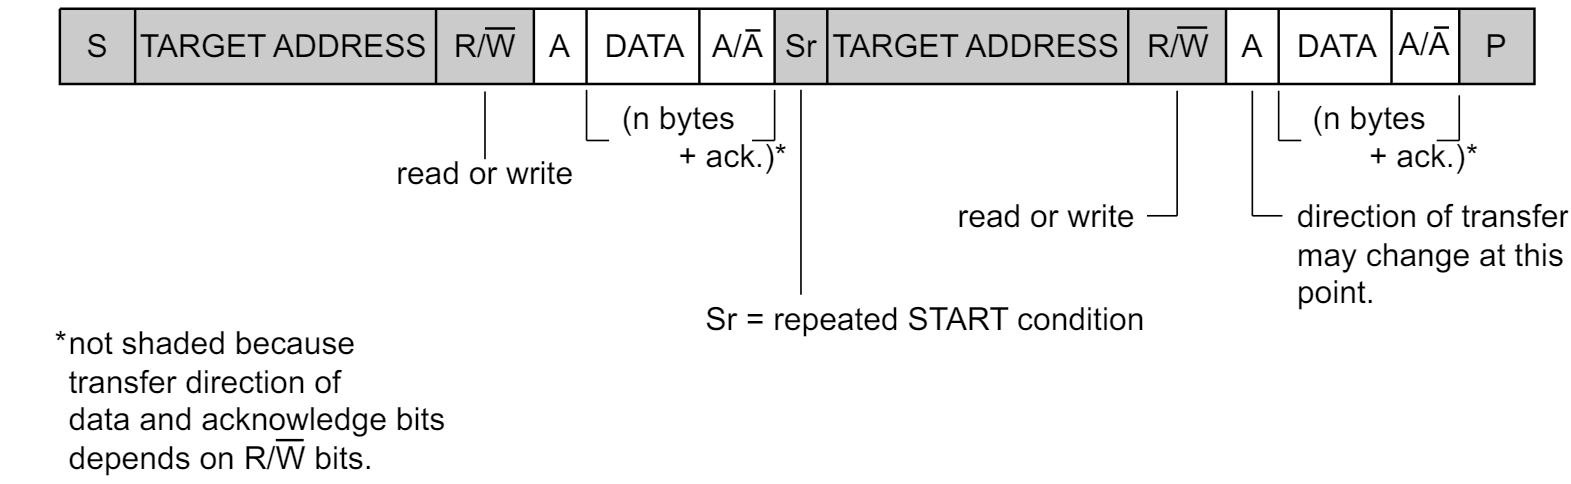
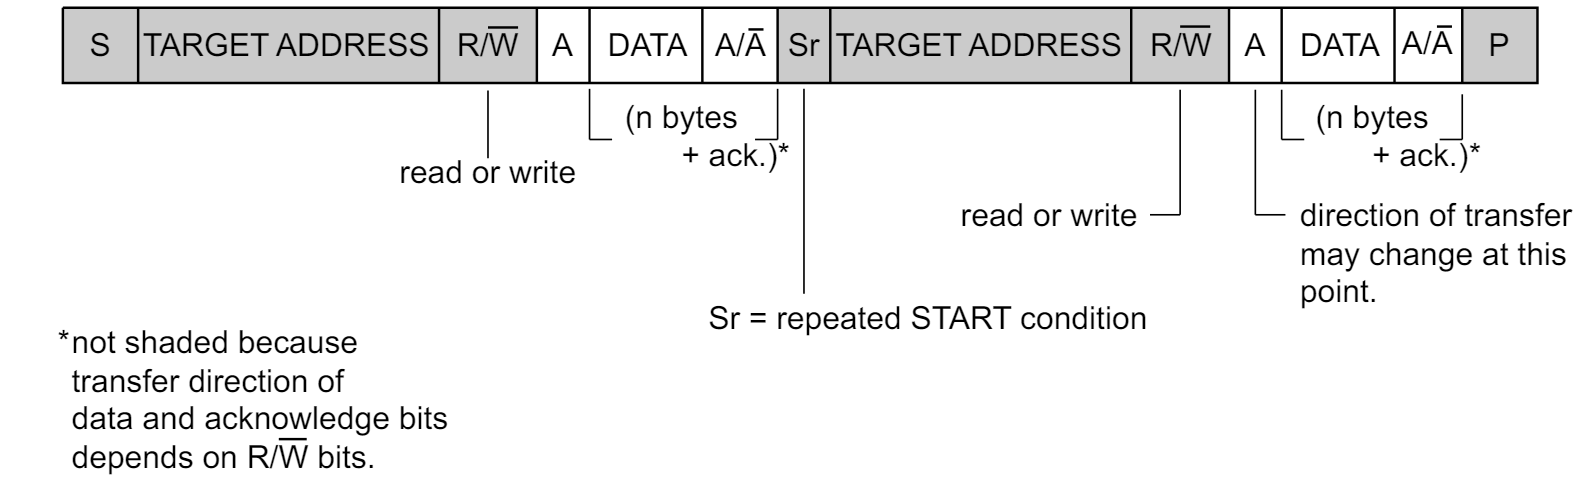
update i2c doc

diff --git a/doc/i2c.md b/doc/i2c.md
@@ -76,7 +76,7 @@ R/W 为低电平表示写 (WRITE), 高电平表示读 (READ)
 
 ### 读写混合
 
-<img src="../figs/i2c_mode3.png"  width="520" />
+<img src="../figs/i2c_mode3.png"  width="620" />
 
 ## 时钟与通信速率
 IIC 协议的时钟频率是可以根据具体应用和设备支持的情况进行调节, 支持的速率如下: 
